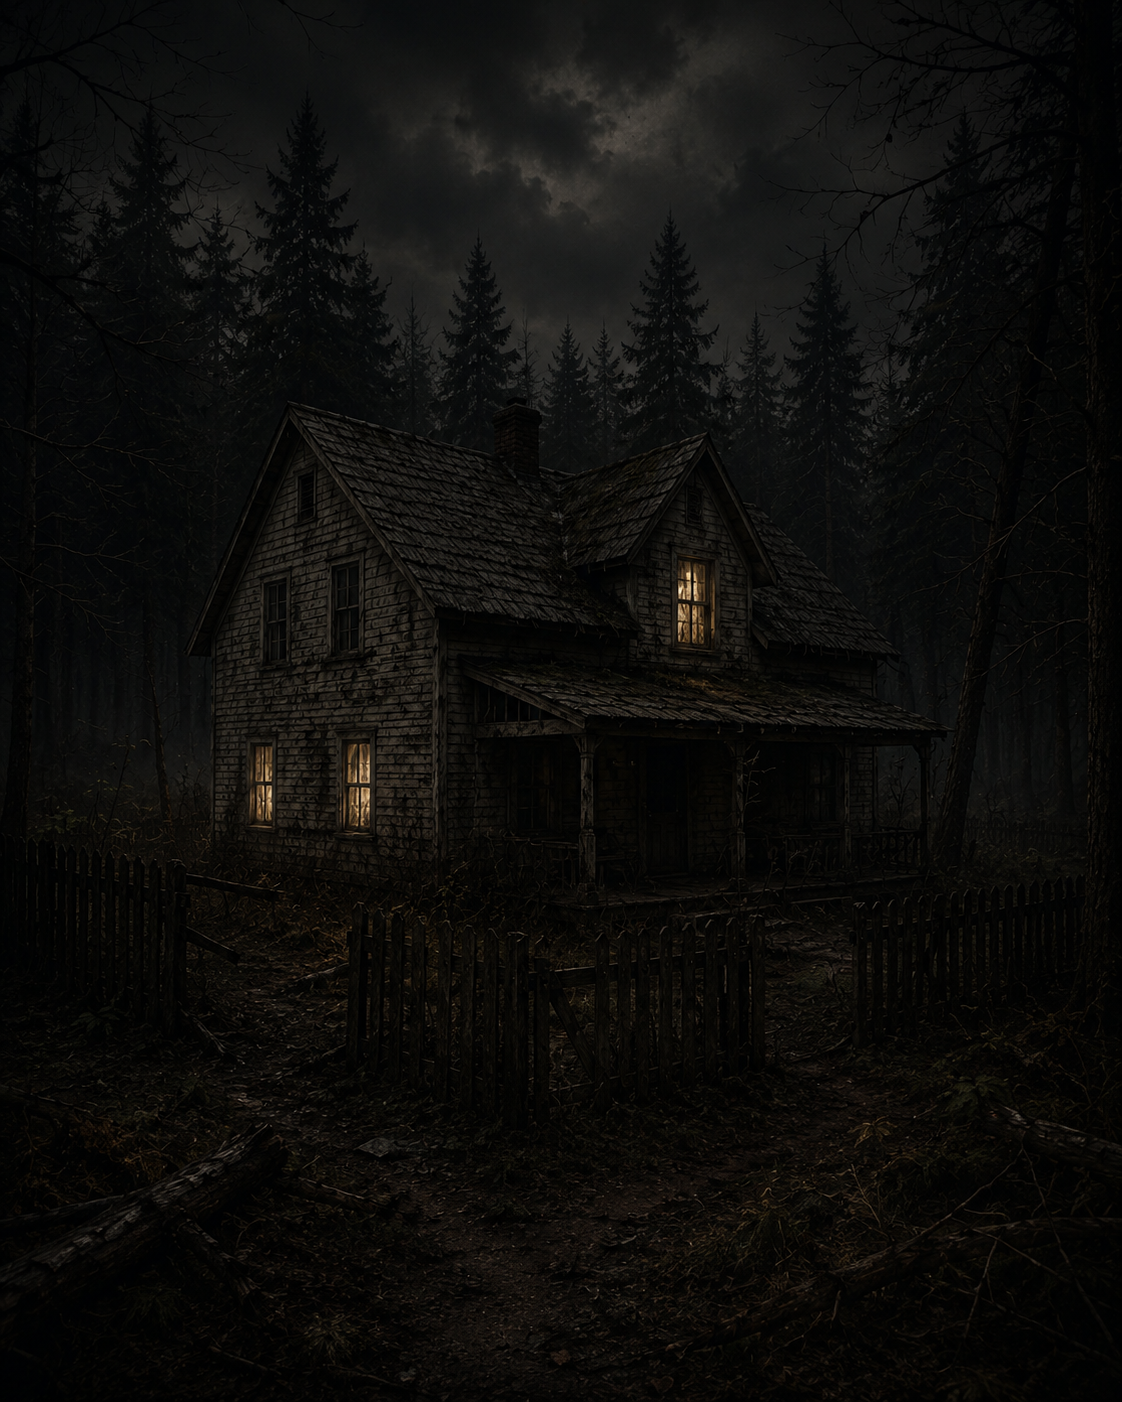
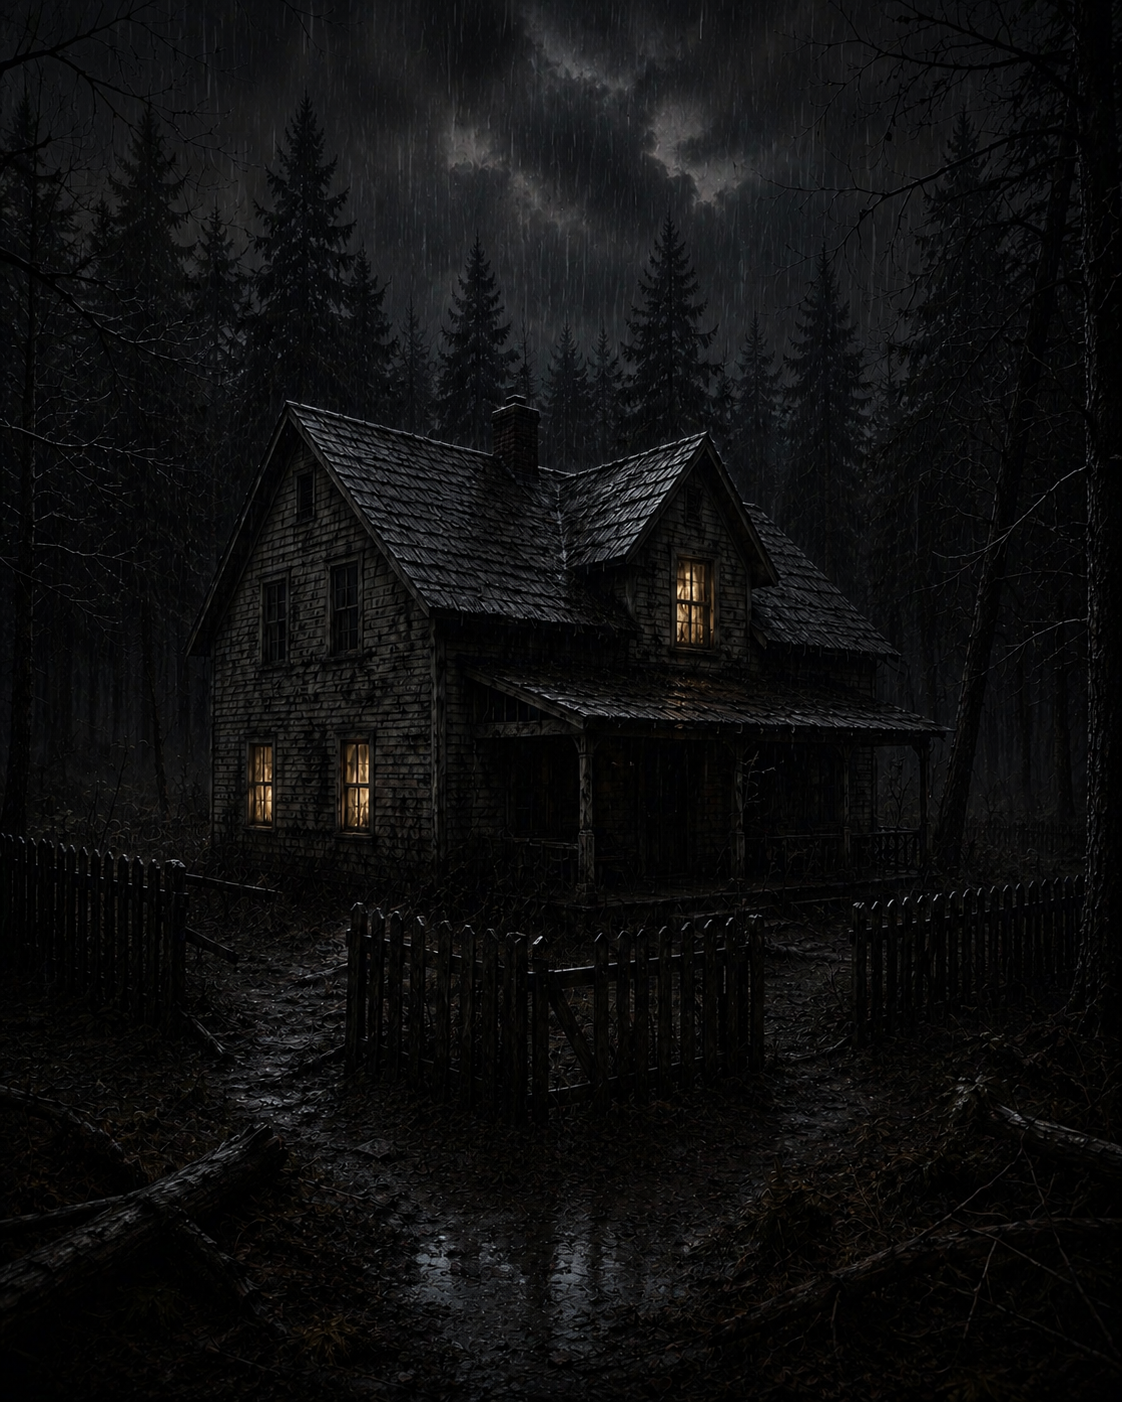
Se reemplaza la introducción por Timer y se mejora la escena inicial

diff --git a/Form1.cs b/Form1.cs
@@ -12,7 +12,8 @@ namespace LaCasaDelBosqueApp
     {
 
         Juego juego = new Juego();
-
+        private System.Windows.Forms.Timer timerIntro = new System.Windows.Forms.Timer();
+        private int pasoIntro = 0;
         public Form1()
         {
             InitializeComponent();
@@ -21,22 +22,15 @@ namespace LaCasaDelBosqueApp
             {
                 txtComando.Focus();
                 this.ActiveControl = txtComando;
+                Introduccion();
             };
-            Escribir("═══════════════════════════════");
-            Escribir(" LA CASA DEL BOSQUE");
-            Escribir("═══════════════════════════════");
-            Escribir("Despiertas frente a una casa abandonada.");
-            Escribir("");
-            Escribir("Escribe 'ayuda' para ver los comandos.");
-            CambiarImagen("entrada.png");
-            lblUbicacion.Text = "📍 Entrada";
         }
         private void CambiarImagen(string nombreImagen)
         {
             string ruta = Path.Combine(
             AppDomain.CurrentDomain.BaseDirectory,
-    "imagenes",
-    nombreImagen);
+            "imagenes",
+            nombreImagen);
             //MessageBox.Show(File.Exists(ruta).ToString());
             if (File.Exists(ruta))
             {
@@ -51,6 +45,88 @@ namespace LaCasaDelBosqueApp
                 picEscena.Refresh();
             }
         }
+        private void Introduccion()
+        {
+            txtComando.Enabled = false;
+            btnEnviar.Enabled = false;
+
+            rtbHistoria.Clear();
+
+            CambiarImagen("autolluvia.png");
+
+            pasoIntro = 0;
+
+            timerIntro.Interval = 2000; // 2 segundos
+            timerIntro.Tick -= TimerIntro_Tick;
+            timerIntro.Tick += TimerIntro_Tick;
+            timerIntro.Start();
+        }
+        private void TimerIntro_Tick(object sender, EventArgs e)
+        {
+            switch (pasoIntro)
+            {
+                case 0:
+                    Escribir("═════════════════════════");
+                    Escribir(" LA CASA DEL BOSQUE");
+                    Escribir("═════════════════════════");
+                    break;
+
+                case 1:
+                    Escribir("");
+                    Escribir("La lluvia golpea el parabrisas...");
+                    break;
+
+                case 2:
+                    Escribir("");
+                    Escribir("Llevas horas conduciendo por un bosque del que parece imposible salir.");
+                    break;
+
+                case 3:
+                    Escribir("");
+                    Escribir("El GPS dejó de funcionar hace mucho tiempo.");
+                    break;
+
+                case 4:
+                    Escribir("");
+                    Escribir("La carretera termina frente a una vieja casa.");
+                    break;
+
+                case 5:
+                    Escribir("");
+                    Escribir("No hay otra opción.");
+                    break;
+
+                case 6:
+                    Escribir("");
+                    Escribir("Apagas el motor.");
+                    break;
+
+                case 7:
+                    Escribir("");
+                    Escribir("Bajas del automóvil...");
+                    break;
+
+                case 8:
+                    CambiarImagen("entrada.png");
+
+                    Escribir("");
+                    Escribir("Frente a ti se alza una casa abandonada.");
+                    Escribir("");
+                    Escribir("Escribe 'ayuda' para ver los comandos.");
+                    juego.Ubicacion = "Entrada";
+                    lblUbicacion.Text = "📍 Entrada";
+
+                    txtComando.Enabled = true;
+                    btnEnviar.Enabled = true;
+                    txtComando.Focus();
+
+                    timerIntro.Stop();
+                    break;
+            }
+
+            pasoIntro++;
+        }
+
         private void Escribir(string texto)
         {
             rtbHistoria.AppendText(texto + Environment.NewLine);
@@ -71,8 +147,13 @@ namespace LaCasaDelBosqueApp
                     if (juego.Ubicacion == "Entrada")
                     {
                         juego.Ubicacion = "Pasillo";
-                        CambiarImagen("pasillo.png");
-                        lblUbicacion.Text = "📍 pasillo";
+
+                        if (juego.PuertaHabitacionAbierta)
+                            CambiarImagen("puertaabierta.png");
+                        else
+                            CambiarImagen("pasillo.png");
+
+                        lblUbicacion.Text = "📍 Pasillo";
                         Escribir("");
                         Escribir("[ PASILLO ]");
                         Escribir("Entras a la casa.");
@@ -211,22 +292,22 @@ namespace LaCasaDelBosqueApp
                         Escribir("[ USAR RADIO ]");
                         Escribir("");
                         Escribir("*sssshhhhhhhhh*");
-                        Thread.Sleep(1500);
+                        
                         Escribir("");
                         Escribir("*crrrrkkkk*");
-                        Thread.Sleep(1500);
+                        
                         Escribir("");
                         Escribir("Entre la estática distingues una melodía lenta...");
-                        Thread.Sleep(2000);
+                        
                         Escribir("");
                         Escribir("\"There was something I forgot to say\"");
-                        Thread.Sleep(2000);
+                        
                         Escribir("");
                         Escribir("\"I was crying on Saturday night\"");
-                        Thread.Sleep(2000);
+                        
                         Escribir("");
                         Escribir("*ssssshhhhhh*");
-                        Thread.Sleep(1500);
+                        
                         Escribir("");
                         Escribir("La melodía se detiene de golpe.");
                     }
@@ -283,9 +364,9 @@ namespace LaCasaDelBosqueApp
 
                 case "ayuda":
                     Escribir("");
-                    Escribir("═══════════════════════════════");
+                    Escribir("═════════════════════════");
                     Escribir("       COMANDOS");
-                    Escribir("═══════════════════════════════");
+                    Escribir("═════════════════════════");
 
                     Escribir("Movimiento:");
                     Escribir("• entrar");
@@ -310,7 +391,7 @@ namespace LaCasaDelBosqueApp
                     Escribir("• inventario");
                     Escribir("• ayuda");
 
-                    Escribir("═══════════════════════════════");
+                    Escribir("═════════════════════════");
 
                     break;
 
@@ -366,21 +447,25 @@ namespace LaCasaDelBosqueApp
                 case "Habitacion":
                     Escribir("");
                     Escribir("[ EXAMINAR ]");
-                    Escribir("Hay un dibujo infantil pegado a la pared.");
-                    Thread.Sleep(1500);
 
                     if (!juego.SombraVista)
                     {
+                        Escribir("Hay un dibujo infantil pegado a la pared.");
+                        
+
                         Escribir("");
                         Escribir("Una figura oscura se asoma por la ventana.");
-                        Thread.Sleep(1500);
+                        
+
+                        Escribir("");
+                        Escribir("La cortina se cierra de golpe.");
+                        
 
                         juego.SombraVista = true;
                         CambiarImagen("habitacionsinsombra.png");
                     }
                     else
                     {
-                        Escribir("");
                         Escribir("La figura oscura ya no está.");
                     }
 
@@ -394,27 +479,22 @@ namespace LaCasaDelBosqueApp
 
             if (juego.Inventario.Count == 0)
             {
-                Escribir("");
-                Escribir("═══════════════════════════════");
-                Escribir("       INVENTARIO");
-                Escribir("═══════════════════════════════");
-                Escribir("Inventario vacío.");
+            Escribir("");
+            Escribir("═════════════════════════");
+            Escribir("       INVENTARIO");
+            Escribir("═════════════════════════");
+            Escribir("Inventario vacío.");
                 return;
             }
 
             Escribir("");
-            Escribir("═══════════════════════════════");
+            Escribir("═════════════════════════");
             Escribir("       INVENTARIO");
-            Escribir("═══════════════════════════════");
+            Escribir("═════════════════════════");
             foreach (string item in juego.Inventario)
             {
                 Escribir("• " + item);
             }
-        }
-        private void Form1_Load(object sender, EventArgs e)
-        {
-            this.ActiveControl = txtComando;
-            txtComando.Focus();
         }
 
         private void picEscena_Click(object sender, EventArgs e)
@@ -428,6 +508,10 @@ namespace LaCasaDelBosqueApp
         }
 
         private void label1_Click_1(object sender, EventArgs e)
+        {
+
+        }
+        private void Form1_Load(object sender, EventArgs e)
         {
 
         }
